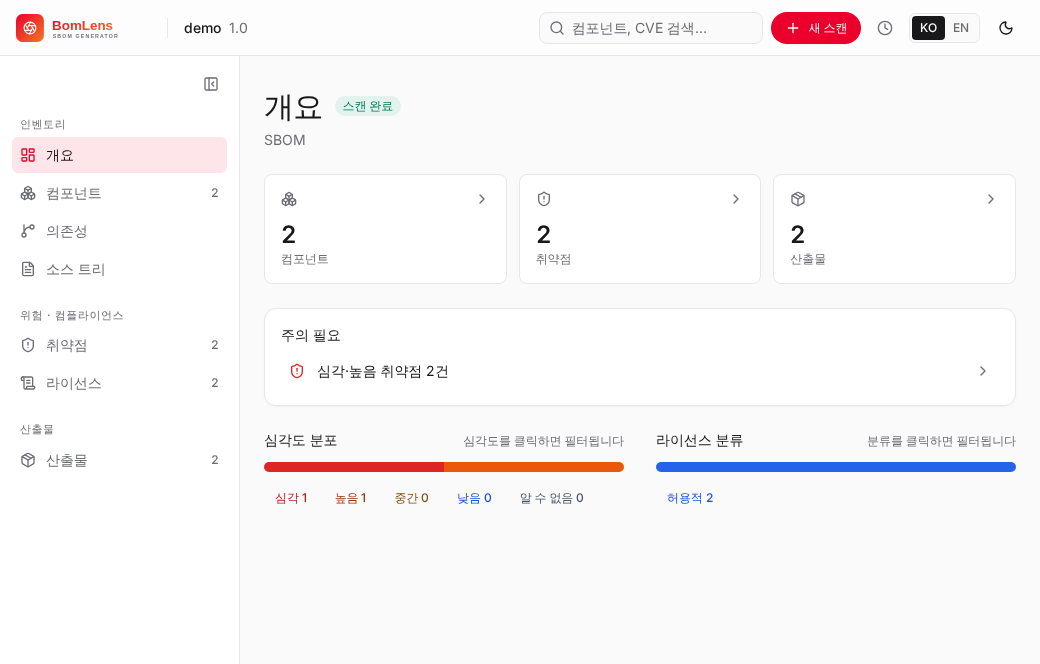
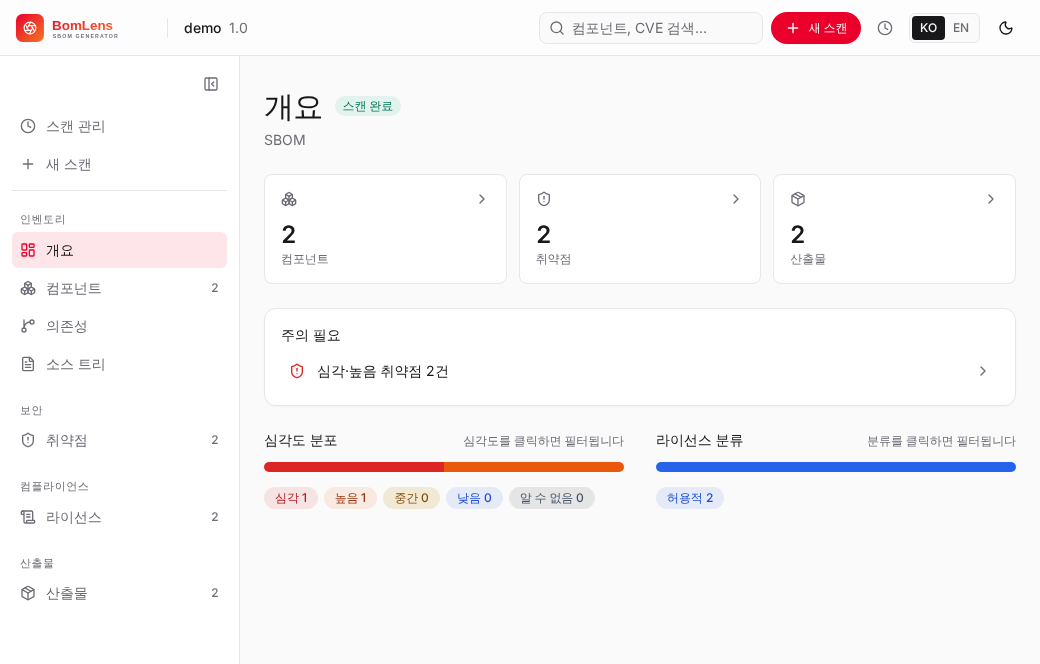
feat(web): name the way out of a scan in the left rail (#536)
* feat(web): name the way out of a scan in the left rail

From a result screen the only labelled route back to the scan list was the
top bar's clock icon, and the logo — neither says where it goes. Put Scan
management and New scan at the top of the rail as ordinary labelled rows,
separated from the scan's own sections by a rule, so leaving a scan reads
as plainly as moving within one. The top bar keeps both: its popover jumps
straight to a past scan, which the rail link does not.

The rail rows share one class pair now, so the global block and the section
rows cannot drift apart.

* docs(images): recapture the Overview guide shots with the rail links

Regenerated in the pinned container (reseed_guide_shots). Only the two
full-window shots change here — the section images crop to `main`, which
this branch does not touch.

diff --git a/docker/web/frontend/src/components/Sidebar.tsx b/docker/web/frontend/src/components/Sidebar.tsx
@@ -1,4 +1,4 @@
-import { PanelLeftClose, PanelLeftOpen } from "lucide-react";
+import { Clock, PanelLeftClose, PanelLeftOpen, Plus } from "lucide-react";
 import { useTranslation } from "react-i18next";
 
 import {
@@ -23,14 +23,30 @@ interface SidebarProps {
   /** Icon-only rail when collapsed (narrow widths / user toggle). */
   collapsed?: boolean;
   onToggleCollapsed?: () => void;
+  /** Hash for the Scan management screen — the way back out of this scan. */
+  homeHref: string;
+  /** Hash for the New scan screen. */
+  newHref: string;
 }
 
+/** Shared row shape for every rail link — global block and sections alike. */
+const RAIL_ROW =
+  "group relative flex w-full items-center gap-2.5 rounded-md px-2 py-2 text-sm " +
+  "transition-colors duration-fast ease-out-soft " +
+  "focus-visible:outline-none focus-visible:ring-2 focus-visible:ring-ring focus-visible:ring-offset-1 focus-visible:ring-offset-sidebar";
+
+/** The resting (non-active) row colours. */
+const RAIL_ROW_IDLE =
+  "font-medium text-muted-foreground hover:bg-muted hover:text-foreground";
+
 /**
- * Left rail: the current scan's grouped sections, adapting to the scan type (AI
- * surfaces appear only for AI/ANALYZE scans). Purely intra-scan navigation —
- * the global actions (New scan, Recent scans) live in the TopBar, so the rail
- * stays one altitude. Tokens only; the brand accent marks the active section.
- * Collapses to an icon rail on narrow widths or via the header toggle.
+ * Left rail: a small block of global links (Scan management, New scan) over the
+ * current scan's grouped sections, which adapt to the scan type (AI surfaces
+ * appear only for AI/ANALYZE scans). The global block repeats what the TopBar
+ * offers, spelled out in words: from a result screen the only labelled way back
+ * to the scan list was the logo, which reads as decoration. Tokens only; the
+ * brand accent marks the active section. Collapses to an icon rail on narrow
+ * widths or via the header toggle.
  */
 export function Sidebar({
   scan = EMPTY_SCAN,
@@ -39,6 +55,8 @@ export function Sidebar({
   counts = {},
   collapsed = false,
   onToggleCollapsed,
+  homeHref,
+  newHref,
 }: SidebarProps) {
   const { t } = useTranslation();
   const groups = visibleGroups(scan);
@@ -73,6 +91,26 @@ export function Sidebar({
         </button>
       </div>
 
+      {/* Global links, kept above the sections and separated by a rule so the
+          rail reads as "leave this scan" over "move within this scan". */}
+      <ul className="mb-2 flex flex-col gap-0.5 border-b border-sidebar-border pb-2">
+        {[
+          { href: homeHref, icon: Clock, label: t("nav.recentScans") },
+          { href: newHref, icon: Plus, label: t("shell.newScan") },
+        ].map(({ href, icon: Icon, label }) => (
+          <li key={href}>
+            <a
+              href={href}
+              title={collapsed ? label : undefined}
+              className={cn(RAIL_ROW, RAIL_ROW_IDLE, collapsed && "justify-center")}
+            >
+              <Icon className="h-4 w-4 shrink-0" aria-hidden />
+              {!collapsed && <span className="truncate">{label}</span>}
+            </a>
+          </li>
+        ))}
+      </ul>
+
       {groups.map((group) => (
         <div key={group.id} className="mb-2">
           {!collapsed && (
@@ -93,15 +131,13 @@ export function Sidebar({
                     aria-current={active ? "page" : undefined}
                     title={collapsed ? label : undefined}
                     className={cn(
-                      "group relative flex w-full items-center gap-2.5 rounded-md px-2 py-2 text-sm",
-                      "transition-colors duration-fast ease-out-soft",
-                      "focus-visible:outline-none focus-visible:ring-2 focus-visible:ring-ring focus-visible:ring-offset-1 focus-visible:ring-offset-sidebar",
+                      RAIL_ROW,
                       collapsed && "justify-center",
                       // Label stays at foreground contrast (AA); the brand accent
                       // lives in the icon + left indicator, not the text.
                       active
                         ? "bg-brand/10 font-semibold text-foreground"
-                        : "font-medium text-muted-foreground hover:bg-muted hover:text-foreground",
+                        : RAIL_ROW_IDLE,
                     )}
                   >
                     <Icon

diff --git a/docker/web/frontend/tests/ui/shell.spec.ts b/docker/web/frontend/tests/ui/shell.spec.ts
@@ -291,6 +291,37 @@ test("a deep link to a scan section restores that scan and section (open-in-new-
   await expect(page.getByRole("link", { name: /^Overview/ })).toHaveAttribute("href", "#/scan/demo_1.0");
 });
 
+test("the rail spells out the way back to the scan list", async ({ page }) => {
+  // The logo and the top bar's clock icon are unlabelled, so a result screen
+  // needs a named exit. The rail carries both global links above its sections.
+  await page.route("**/capabilities", (r) =>
+    r.fulfill({ contentType: "application/json", body: JSON.stringify({ firmware: false, scanoss: false, docker: true }) }),
+  );
+  await page.route("**/results", (r) => r.fulfill({ contentType: "application/json", body: "[]" }));
+  await page.route("**/scans", (r) =>
+    r.fulfill({ contentType: "application/json", body: JSON.stringify([
+      { id: "demo_1.0", project: "demo", version: "1.0", components: 3, maxSeverity: "CRITICAL", isAiScan: false, generatedAt: 1700000000 },
+    ]) }),
+  );
+  await page.route("**/scan?id=demo_1.0", (r) =>
+    r.fulfill({ contentType: "application/json", body: JSON.stringify(DONE) }),
+  );
+  await page.route("**/file**", (r) =>
+    r.fulfill({ contentType: "application/json", body: JSON.stringify(SBOM) }),
+  );
+
+  await page.goto("/?ui=next#/scan/demo_1.0");
+
+  const rail = page.getByRole("navigation", { name: "Sections" });
+  // Real hash links, so both open in a new tab like every other rail row.
+  await expect(rail.getByRole("link", { name: "New scan" })).toHaveAttribute("href", "#/new");
+  const home = rail.getByRole("link", { name: "Scan management" });
+  await expect(home).toHaveAttribute("href", "#/");
+
+  await home.click();
+  await expect(page.getByRole("heading", { name: "Scan management" })).toBeVisible();
+});
+
 test("an unknown scan id falls back to the Recent scans home screen", async ({ page }) => {
   await page.route("**/capabilities", (r) =>
     r.fulfill({ contentType: "application/json", body: JSON.stringify({ firmware: false, scanoss: false, docker: true }) }),

diff --git a/docker/web/frontend/src/components/AppShell.tsx b/docker/web/frontend/src/components/AppShell.tsx
@@ -44,10 +44,10 @@ const COLLAPSE_QUERY = "(max-width: 1024px)";
 
 /**
  * The application frame: a sticky top bar over a left rail + scrolling canvas.
- * The top bar carries the global actions (New scan, Recent); the left rail is
- * purely the current scan's sections and only appears once a scan is loaded. The
- * rail adapts to the scan type and collapses automatically on narrow viewports
- * (and via the in-rail toggle).
+ * The top bar carries the global actions (New scan, Recent); the left rail
+ * appears once a scan is loaded and repeats those two as labelled links above
+ * the scan's own sections. The rail adapts to the scan type and collapses
+ * automatically on narrow viewports (and via the in-rail toggle).
  */
 export function AppShell({
   scan = EMPTY_SCAN,
@@ -100,6 +100,8 @@ export function AppShell({
             counts={counts}
             collapsed={collapsed}
             onToggleCollapsed={() => setManualCollapsed(!collapsed)}
+            homeHref={homeHref}
+            newHref={newHash()}
           />
         )}
         {/* tabIndex makes the scrollable region keyboard-accessible (axe

diff --git a/docs/reference/ui.md b/docs/reference/ui.md
@@ -24,10 +24,10 @@ cd ~/sbom-output      # output folder (anywhere is fine)
 The interface has a top bar across the width, a left rail for the current scan's sections, and a content area:
 
 - **Top bar** — the product mark (links home), the current project, a Re-scan button (shown on a scan that still carries its settings, so you can re-run the same target with the toggles prefilled), global search across components and CVEs, the Scan management menu (the clock icon opens a list of past scans with a delete control and a link to the full list), the New scan button, and the language (한국어 / EN) and light/dark toggles.
-- **Left rail** — the current scan's sections, grouped under Inventory, Security, Compliance, AI and Outputs. The rail adapts to the scan: AI sections appear only for AI/ML SBOMs, and a section appears only when its data exists. It collapses to icons on narrow windows. With no scan open — the home screen — there is no rail.
+- **Left rail** — two named links out of the scan (Scan management, New scan) above the current scan's sections, which are grouped under Inventory, Security, Compliance, AI and Outputs. The rail adapts to the scan: AI sections appear only for AI/ML SBOMs, and a section appears only when its data exists. It collapses to icons on narrow windows. With no scan open — the home screen — there is no rail.
 - **Content** — the home (Scan management) screen, the New scan form, the running view, or the active result section.
 
-The global actions (New scan, Scan management) live in the top bar so the rail stays purely the current scan's sections. Every navigation element — the logo, New scan, the rail sections, the jump cards and the past-scan links — is a real link backed by a URL hash (`#/scan/<id>/<section>`), so Cmd/Ctrl or middle click opens it in a new tab.
+The global actions (New scan, Scan management) live in the top bar, and the rail repeats them as labelled links above its sections so a result screen always shows a named way back. Every navigation element — the logo, New scan, the rail sections, the jump cards and the past-scan links — is a real link backed by a URL hash (`#/scan/<id>/<section>`), so Cmd/Ctrl or middle click opens it in a new tab.
 
 ## New scan
 
@@ -121,7 +121,7 @@ That section also shows an AI compliance profile card: a one-glance rollup of th
 
 ## Scan management
 
-The home screen — opened from the logo or the top bar's Scan management (clock) menu — lists every past scan saved on this machine. Each scan's `{Project}_{Version}/` subfolder under the output base is one entry. A search box and scan-type filter chips (only the types that exist — Source, Container, RootFS, Firmware, AI model, SBOM) narrow the list; three summary cards show the total scans, how many are at risk (click that card to filter to them), and the project count. The table sorts by scan, generated time, components or top severity. Click a row to re-open its results, or delete one to remove its subfolder. This is local files only — no account, no database.
+The home screen — opened from the rail's Scan management link, the logo, or the top bar's Scan management (clock) menu — lists every past scan saved on this machine. Each scan's `{Project}_{Version}/` subfolder under the output base is one entry. A search box and scan-type filter chips (only the types that exist — Source, Container, RootFS, Firmware, AI model, SBOM) narrow the list; three summary cards show the total scans, how many are at risk (click that card to filter to them), and the project count. The table sorts by scan, generated time, components or top severity. Click a row to re-open its results, or delete one to remove its subfolder. This is local files only — no account, no database.
 
 ## Notes
 
